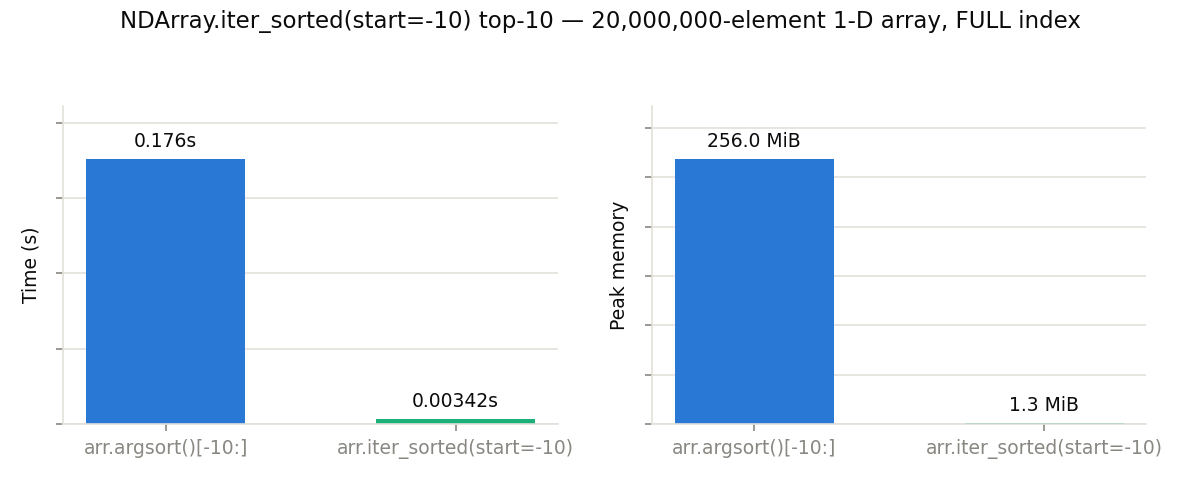
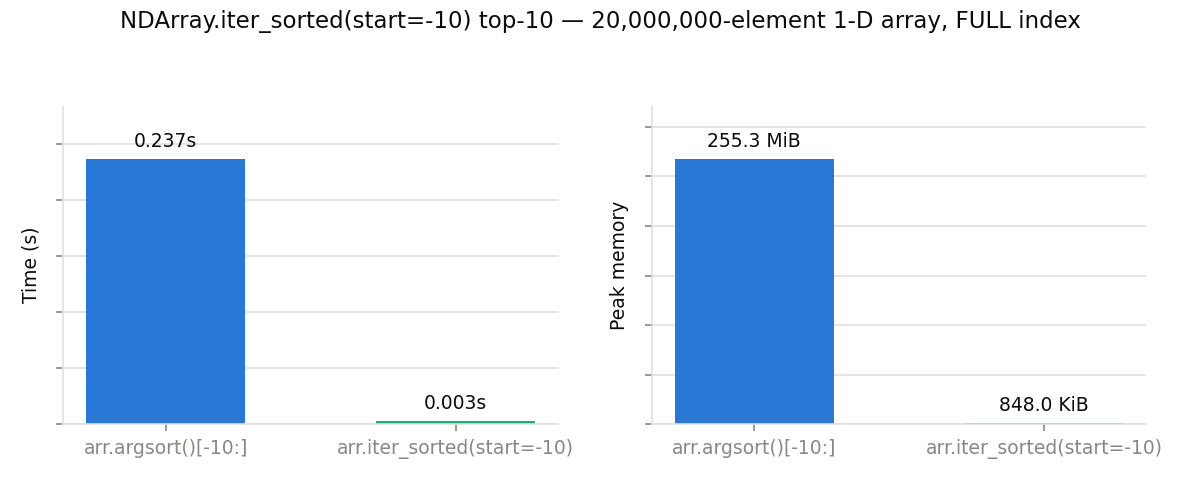
Better idiom for converting a list to a numpy array

diff --git a/bench/optim_tips/tip_03b_ndarray_iter_sorted.py b/bench/optim_tips/tip_03b_ndarray_iter_sorted.py
@@ -41,7 +41,7 @@ def naive():
 def tip():
     # iter_sorted reads just the last 10 entries from the index sidecar.
     arr = blosc2.open(URLPATH)
-    return list(arr.iter_sorted(start=-TOPK))
+    return np.fromiter(arr.iter_sorted(start=-TOPK), dtype=arr.dtype)
 
 
 if __name__ == "__main__":

diff --git a/doc/guides/optimization_tips.md b/doc/guides/optimization_tips.md
@@ -119,11 +119,8 @@ arr.create_index(kind=blosc2.IndexKind.FULL)
 top10 = arr[arr.argsort()[-10:]]
 
 # Prefer: reads only the last 10 entries from the sidecar
-from blosc2 import asarray
-
-top10 = asarray(list(arr.iter_sorted(start=-10)))
+top10 = np.fromiter(arr.iter_sorted(start=-10), dtype=arr.dtype)
 ```
-
 Descending and bottom-k work via ``step=-1``:
 
 ```python
@@ -134,8 +131,8 @@ list(arr.iter_sorted(start=9, stop=None, step=-1))  # bottom-10 descending
 
 ![NDArray.iter_sorted(start=-10) top-10](optim_tips/tip_03b_ndarray_iter_sorted.png)
 
-On a 20M-element float64 array, ``iter_sorted(start=-10)`` was **~52× faster**
-and used **~193× less peak memory** than ``argsort()[-10:]`` — the latter
+On a 20M-element float64 array, ``iter_sorted(start=-10)`` was **~70× faster**
+and used **~300× less peak memory** than ``argsort()[-10:]`` — the latter
 still materialises the full 20M-element positions array even when backed by a
 FULL index.
 